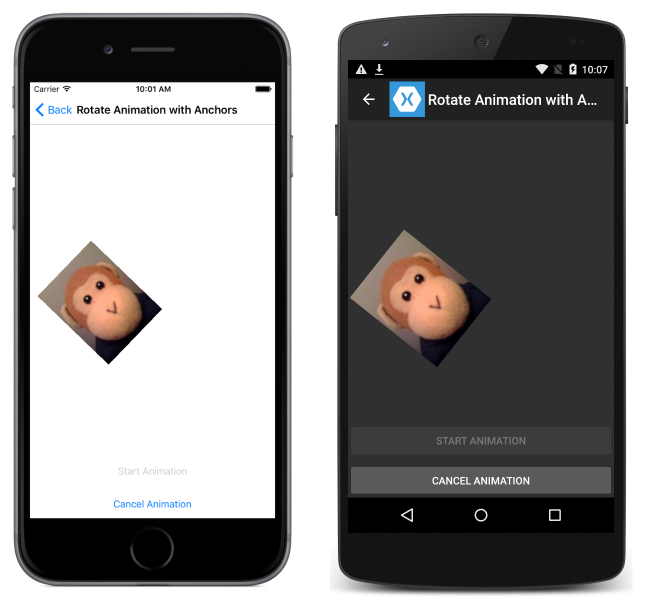
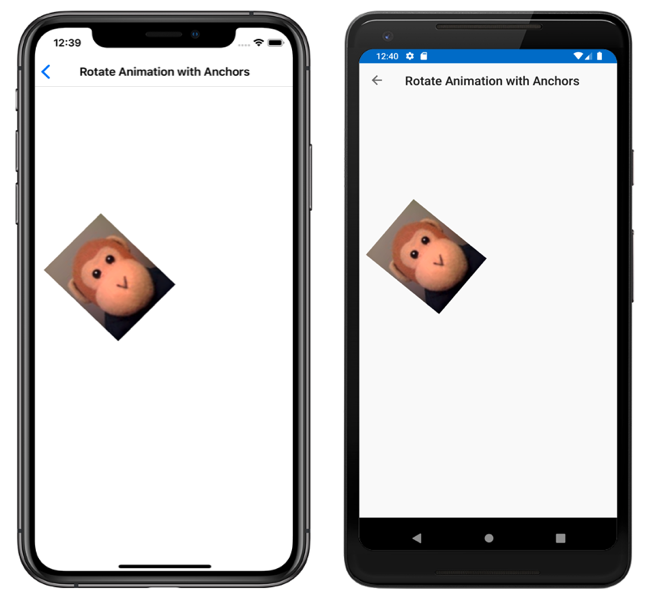
Code and screenshot update.

diff --git a/docs/xamarin-forms/user-interface/animation/simple.md b/docs/xamarin-forms/user-interface/animation/simple.md
@@ -6,7 +6,7 @@ ms.assetid: 4A6FAE5A-848F-4CE0-BFA1-22A6309B5225
 ms.technology: xamarin-forms
 author: davidbritch
 ms.author: dabritch
-ms.date: 10/27/2017
+ms.date: 10/24/2019
 ---
 
 # Simple Animations in Xamarin.Forms
@@ -106,8 +106,9 @@ The [`AnchorX`](xref:Xamarin.Forms.VisualElement.AnchorX) and [`AnchorY`](xref:X
 Given an [`Image`](xref:Xamarin.Forms.Image) that has been placed at the center of a layout, the following code example demonstrates rotating the image around the center of the layout by setting its [`AnchorY`](xref:Xamarin.Forms.VisualElement.AnchorY) property:
 
 ```csharp
-image.AnchorY = (Math.Min (absoluteLayout.Width, absoluteLayout.Height) / 2) / image.Height;
-await image.RotateTo (360, 2000);
+double radius = Math.Min(absoluteLayout.Width, absoluteLayout.Height) / 2;
+image.AnchorY = radius / image.Height;
+await image.RotateTo(360, 2000);
 ```
 
 To rotate the [`Image`](xref:Xamarin.Forms.Image) instance around the center of the layout, the [`AnchorX`](xref:Xamarin.Forms.VisualElement.AnchorX) and [`AnchorY`](xref:Xamarin.Forms.VisualElement.AnchorY) properties must be set to values that are relative to the width and height of the `Image`. In this example, the center of the `Image` is defined to be at the center of the layout, and so the default `AnchorX` value of 0.5 does not require changing. However, the `AnchorY` property is redefined to be a value from the top of the `Image` to the center point of the layout. This ensures that the `Image` makes a full rotation of 360 degrees around the center point of the layout, as shown in the following screenshots:
